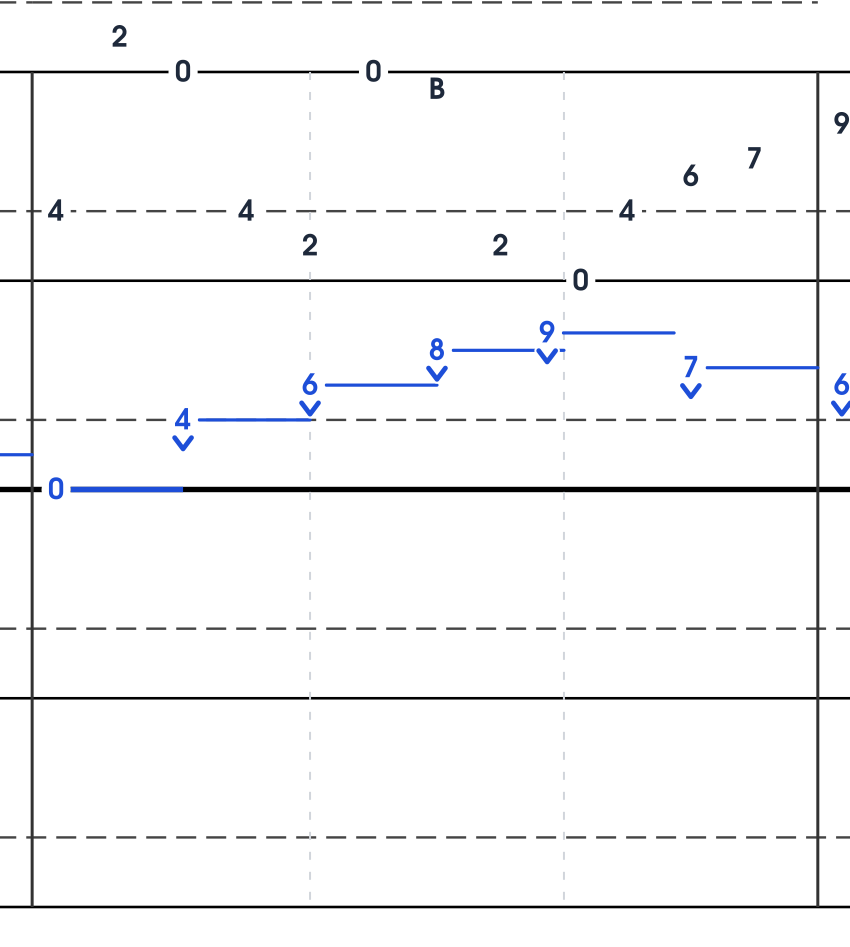
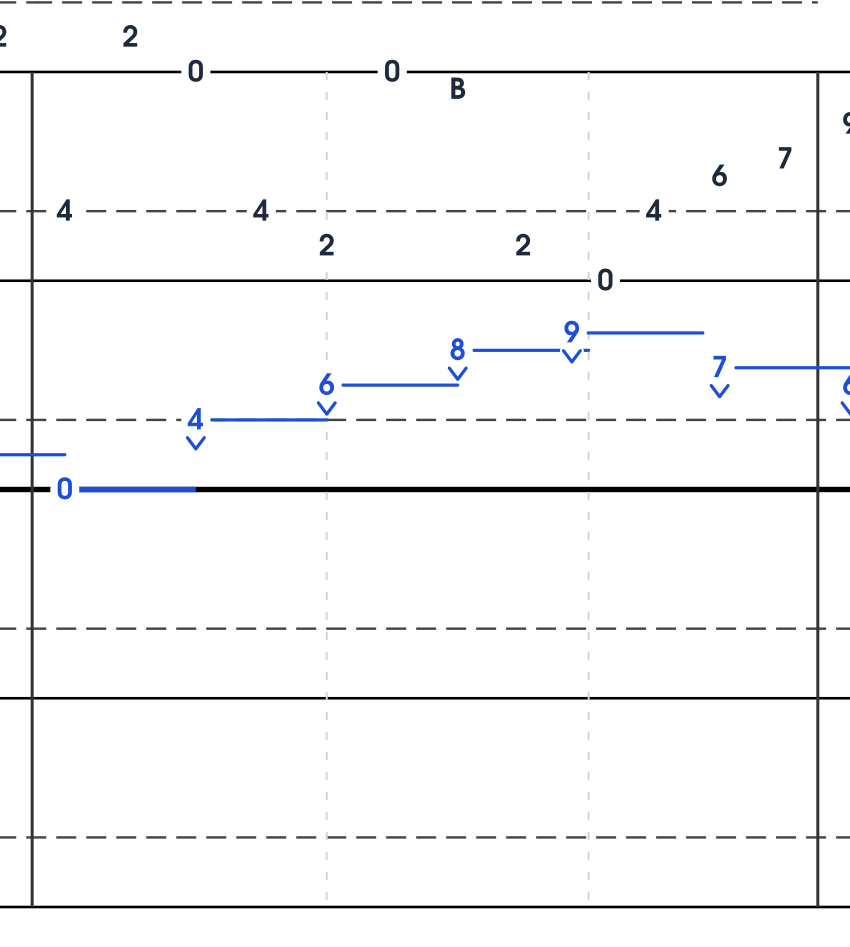
feat(engraving): authentic LilyPond accolade, zero system start lines, symmetric barline note spacing, and note-matched 0.80pt chevrons

diff --git a/src/render/print-layout.ts b/src/render/print-layout.ts
@@ -147,15 +147,38 @@ export function getClassicalAccoladePath(
 }
 
 /**
- * Classical calligraphic vertical accolade (curly brace) for the left margin of a
+/**
+ * Classical LilyPond/Emmentaler brace outline command table.
+ * 14 cubic Bézier segments derived from authentic master music engraving.
+ */
+const LILY_BRACE_CMDS: Array<{ type: 'M' | 'c' | 's'; args: number[] }> = [
+  { type: 'M', args: [-76, -210] },
+  { type: 'c', args: [0, 164, -92, 194, -92, 210] },
+  { type: 's', args: [92, 46, 92, 210] },
+  { type: 'c', args: [0, 148, -62, 270, -62, 430] },
+  { type: 'c', args: [0, 120, 34, 234, 130, 304] },
+  { type: 'c', args: [14, 10, 30, -10, 16, -20] },
+  { type: 'c', args: [-68, -50, -88, -122, -88, -204] },
+  { type: 'c', args: [0, -144, 58, -266, 58, -420] },
+  { type: 'c', args: [0, -118, -32, -228, -122, -300] },
+  { type: 'c', args: [90, -72, 122, -182, 122, -300] },
+  { type: 'c', args: [0, -154, -58, -276, -58, -420] },
+  { type: 'c', args: [0, -82, 20, -154, 88, -204] },
+  { type: 'c', args: [14, -10, -2, -30, -16, -20] },
+  { type: 'c', args: [-96, 70, -130, 184, -130, 304] },
+  { type: 'c', args: [0, 160, 62, 282, 62, 430] },
+];
+
+/**
+ * Authentic classical vertical accolade (curly brace) for the left margin of a
  * horizontal system. It clasps the full 4-octave staff from yTop (o5) to yBot (o1)
  * with its central cusp pointing directly horizontally into the Middle C spine at y(48).
  *
- * It features authentic calligraphic S-curvature:
- * - Upper and lower lobes swelling outward to bellyReach
- * - Graceful concave inflection towards a slender waist
- * - Sharp central cusp sweeping outward horizontally at yMid
- * - Smooth inner return profile tapering to delicate needle finials at tips and cusp
+ * Implements the definitive Emmentaler/LilyPond master-engraved brace geometry:
+ * - Razor-sharp horizontal beak cusp at yMid pointing leftward into the margin
+ * - Delicate, graceful waist inflections
+ * - Sculptural, organic swelling bellies
+ * - Feather-tapered tips clasping the staff edges at staffLeft
  */
 export function getVerticalAccoladePath(
   staffLeft: number,
@@ -166,80 +189,50 @@ export function getVerticalAccoladePath(
   maybeThick?: number
 ): string {
   let reach = ACCOLADE_WIDTH_PT;
-  let thick = ACCOLADE_THICKNESS_PT;
 
   if (maybeThick !== undefined) {
     reach = cuspOrThick;
-    thick = maybeThick;
-  } else if (reachOrBelly > 0 && cuspOrThick > 0) {
+  } else if (reachOrBelly > 0) {
     reach = reachOrBelly;
-    thick = cuspOrThick;
   }
 
   const ym = (yTop + yBot) / 2;
   const h = yBot - yTop;
-  const hh = h / 2;
+  const FONT_MAX_Y = 954.0;
+  const FONT_MIN_X = -168.0;
+  const FONT_MAX_X = 22.0;
 
-  // Classical proportions:
-  // - Outer bellies swell to ~85% of full cusp reach
-  // - Slender waist indents inward to ~30% of cusp reach
-  // - Central cusp sweeps into a horizontal beak pointing away from the staff
-  const cuspW = reach;
-  const bellyW = reach * 0.85;
-  const waistW = reach * 0.30;
-  const cuspReachY = 2.4;
+  const scaleY = (h / 2) / FONT_MAX_Y;
+  const scaleX = reach / (FONT_MAX_X - FONT_MIN_X);
 
-  // Top tip: touches the top staff line (o5)
-  const p0 = [staffLeft, yTop];
-  // Upper lobe: Tip to belly
-  const c1 = [staffLeft - bellyW * 0.60, yTop + hh * 0.07];
-  const c2 = [staffLeft - bellyW, yTop + hh * 0.20];
-  const pBelly = [staffLeft - bellyW, yTop + hh * 0.36];
+  const toS = (x: number, y: number): string =>
+    `${(staffLeft + (x - FONT_MAX_X) * scaleX).toFixed(2)} ${(ym - y * scaleY).toFixed(2)}`;
 
-  // Upper lobe: Belly to waist
-  const c3 = [staffLeft - bellyW, yTop + hh * 0.52];
-  const c4 = [staffLeft - waistW - 0.2, ym - hh * 0.28];
-  const pWaist = [staffLeft - waistW, ym - hh * 0.16];
+  let curr: [number, number] = [LILY_BRACE_CMDS[0].args[0], LILY_BRACE_CMDS[0].args[1]];
+  let prevCp: [number, number] = [curr[0], curr[1]];
+  const parts = [`M ${toS(curr[0], curr[1])}`];
 
-  // Upper lobe: Waist to central cusp (horizontal beak at ym)
-  const c5 = [staffLeft - waistW + 1.2, ym - cuspReachY * 1.8];
-  const c6 = [staffLeft - cuspW * 0.85, ym - 0.2];
-  const pCusp = [staffLeft - cuspW, ym];
+  for (let i = 1; i < LILY_BRACE_CMDS.length; i++) {
+    const cmd = LILY_BRACE_CMDS[i];
+    let p1: [number, number];
+    let p2: [number, number];
+    let p3: [number, number];
 
-  // Lower lobe (symmetric mirror across ym)
-  const c7 = [staffLeft - cuspW * 0.85, ym + 0.2];
-  const c8 = [staffLeft - waistW + 1.2, ym + cuspReachY * 1.8];
-  const pWaistLower = [staffLeft - waistW, ym + hh * 0.16];
-
-  const c9 = [staffLeft - waistW - 0.2, ym + hh * 0.28];
-  const c10 = [staffLeft - bellyW, yBot - hh * 0.52];
-  const pBellyLower = [staffLeft - bellyW, yBot - hh * 0.36];
-
-  const c11 = [staffLeft - bellyW, yBot - hh * 0.20];
-  const c12 = [staffLeft - bellyW * 0.60, yBot - hh * 0.07];
-  const pBot = [staffLeft, yBot];
-
-  // Inner return contour (swells in bellies, tapers at tips and cusp)
-  const inThickBelly = thick;
-  const inThickWaist = thick * 0.70;
-  const inThickCusp = 0.4;
-
-  return [
-    `M ${p0[0].toFixed(2)} ${p0[1].toFixed(2)}`,
-    `C ${c1[0].toFixed(2)} ${c1[1].toFixed(2)}, ${c2[0].toFixed(2)} ${c2[1].toFixed(2)}, ${pBelly[0].toFixed(2)} ${pBelly[1].toFixed(2)}`,
-    `C ${c3[0].toFixed(2)} ${c3[1].toFixed(2)}, ${c4[0].toFixed(2)} ${c4[1].toFixed(2)}, ${pWaist[0].toFixed(2)} ${pWaist[1].toFixed(2)}`,
-    `C ${c5[0].toFixed(2)} ${c5[1].toFixed(2)}, ${c6[0].toFixed(2)} ${c6[1].toFixed(2)}, ${pCusp[0].toFixed(2)} ${pCusp[1].toFixed(2)}`,
-    `C ${c7[0].toFixed(2)} ${c7[1].toFixed(2)}, ${c8[0].toFixed(2)} ${c8[1].toFixed(2)}, ${pWaistLower[0].toFixed(2)} ${pWaistLower[1].toFixed(2)}`,
-    `C ${c9[0].toFixed(2)} ${c9[1].toFixed(2)}, ${c10[0].toFixed(2)} ${c10[1].toFixed(2)}, ${pBellyLower[0].toFixed(2)} ${pBellyLower[1].toFixed(2)}`,
-    `C ${c11[0].toFixed(2)} ${c11[1].toFixed(2)}, ${c12[0].toFixed(2)} ${c12[1].toFixed(2)}, ${pBot[0].toFixed(2)} ${pBot[1].toFixed(2)}`,
-    `C ${(c12[0] + inThickBelly * 0.3).toFixed(2)} ${c12[1].toFixed(2)}, ${(c11[0] + inThickBelly).toFixed(2)} ${c11[1].toFixed(2)}, ${(pBellyLower[0] + inThickBelly).toFixed(2)} ${pBellyLower[1].toFixed(2)}`,
-    `C ${(c10[0] + inThickBelly).toFixed(2)} ${c10[1].toFixed(2)}, ${(c9[0] + inThickWaist).toFixed(2)} ${c9[1].toFixed(2)}, ${(pWaistLower[0] + inThickWaist).toFixed(2)} ${pWaistLower[1].toFixed(2)}`,
-    `C ${(c8[0] + inThickWaist * 0.7).toFixed(2)} ${c8[1].toFixed(2)}, ${(c7[0] + inThickCusp).toFixed(2)} ${(c7[1] + 0.15).toFixed(2)}, ${(pCusp[0] + inThickCusp).toFixed(2)} ${ym.toFixed(2)}`,
-    `C ${(c6[0] + inThickCusp).toFixed(2)} ${(c6[1] - 0.15).toFixed(2)}, ${(c5[0] + inThickWaist * 0.7).toFixed(2)} ${c5[1].toFixed(2)}, ${(pWaist[0] + inThickWaist).toFixed(2)} ${pWaist[1].toFixed(2)}`,
-    `C ${(c4[0] + inThickWaist).toFixed(2)} ${c4[1].toFixed(2)}, ${(c3[0] + inThickBelly).toFixed(2)} ${c3[1].toFixed(2)}, ${(pBelly[0] + inThickBelly).toFixed(2)} ${pBelly[1].toFixed(2)}`,
-    `C ${(c2[0] + inThickBelly).toFixed(2)} ${c2[1].toFixed(2)}, ${(c1[0] + inThickBelly * 0.3).toFixed(2)} ${c1[1].toFixed(2)}, ${p0[0].toFixed(2)} ${p0[1].toFixed(2)}`,
-    'Z',
-  ].join(' ');
+    if (cmd.type === 'c') {
+      p1 = [curr[0] + cmd.args[0], curr[1] + cmd.args[1]];
+      p2 = [curr[0] + cmd.args[2], curr[1] + cmd.args[3]];
+      p3 = [curr[0] + cmd.args[4], curr[1] + cmd.args[5]];
+    } else {
+      p1 = [2 * curr[0] - prevCp[0], 2 * curr[1] - prevCp[1]];
+      p2 = [curr[0] + cmd.args[0], curr[1] + cmd.args[1]];
+      p3 = [curr[0] + cmd.args[2], curr[1] + cmd.args[3]];
+    }
+    parts.push(`C ${toS(p1[0], p1[1])}, ${toS(p2[0], p2[1])}, ${toS(p3[0], p3[1])}`);
+    prevCp = p2;
+    curr = p3;
+  }
+  parts.push('Z');
+  return parts.join(' ');
 }
 
 export interface PrintLayoutOptions {
@@ -485,7 +478,7 @@ export function computeColumnarLayout(
 
   const ptPerTick = options.pixelsPerTick > 0
     ? options.pixelsPerTick
-    : (measureWidthPt - MEASURE_INSET_PT) / ticksPerMeasure;
+    : measureWidthPt / ticksPerMeasure;
 
   // Slice the score into horizontal systems
   const numSystems = Math.ceil(totalMeasures / measuresPerSystem);
@@ -641,16 +634,21 @@ export function getSystemGeometry(
   const yForPitch = (pitch: number): number =>
     staffBotY - (pitch - minPitch) * ptPerSemitone;
 
+  const subdivisionTicks = (layout.score?.gridResolution && layout.score.gridResolution > 0)
+    ? layout.score.gridResolution
+    : (layout.ticksPerBeat > 0 ? layout.ticksPerBeat / 4 : 12);
+  const measureInsetPt = (subdivisionTicks / 2) * ptPerTick;
+
   const xForMeasureStart = (measureIndexOnSystem: number): number =>
     staffLeftPt + measureIndexOnSystem * measureWidthPt;
 
   const xForTick = (tick: number): number => {
     const rel = tick - system.startTick;
-    if (rel <= 0) return staffLeftPt + MEASURE_INSET_PT;
+    if (rel <= 0) return staffLeftPt + measureInsetPt;
     if (rel >= spanTicks) return staffRightPt;
     const measureIdx = Math.floor(rel / ticksPerMeasure);
     const localTicks = rel - measureIdx * ticksPerMeasure;
-    return xForMeasureStart(measureIdx) + MEASURE_INSET_PT + localTicks * ptPerTick;
+    return xForMeasureStart(measureIdx) + measureInsetPt + localTicks * ptPerTick;
   };
 
   return {
@@ -809,7 +807,8 @@ export function renderPageToSvg(
 
     // 3a. System Start:
     // System 1 (start of the piece) receives the classical calligraphic vertical accolade (curly brace).
-    // Systems after the start (systemIndex > 0) use a clean regular flat start.
+    // Subsequent systems use a regular open start without an accolade.
+    // Zero starting vertical line: staff lines emerge openly and freely from staffLeft across the system.
     if (system.systemIndex === 0) {
       // Dedicated measure number in the left margin clear of the accolade
       svgParts.push(`    <!-- Urtext Measure Number in Dedicated Left Margin -->`);
@@ -818,16 +817,10 @@ export function renderPageToSvg(
       // Authentic Classical Accolade Curly Brace clasping o5 to o1
       svgParts.push(`    <!-- Classical Vertical Accolade (Curly Brace) clasping o1 to o5 -->`);
       svgParts.push(`    <path class="accolade" d="${getVerticalAccoladePath(staffLeft, staffTop, staffBot, ACCOLADE_WIDTH_PT, ACCOLADE_THICKNESS_PT)}" fill="#111827"/>`);
-
-      // Initial flat vertical start line
-      svgParts.push(`    <line x1="${staffLeft.toFixed(2)}" y1="${staffTop.toFixed(2)}" x2="${staffLeft.toFixed(2)}" y2="${staffBot.toFixed(2)}" stroke="#111827" stroke-width="1.0"/>`);
     } else {
-      // Regular flat start for subsequent systems
+      // Regular start for subsequent systems
       svgParts.push(`    <!-- Urtext Measure Number in Dedicated Left Margin -->`);
       svgParts.push(`    <text x="${(staffLeft - 10).toFixed(2)}" y="${(staffTop - 8).toFixed(2)}" text-anchor="end" class="measure-num">${system.startMeasure}</text>`);
-
-      // Regular flat vertical start line
-      svgParts.push(`    <line x1="${staffLeft.toFixed(2)}" y1="${staffTop.toFixed(2)}" x2="${staffLeft.toFixed(2)}" y2="${staffBot.toFixed(2)}" stroke="#111827" stroke-width="1.0"/>`);
     }
 
     // 3b. Horizontal staff topography
@@ -1085,14 +1078,14 @@ export function renderPageToSvg(
           const cy = ny - (r + clearance);
           const baseY = cy + chH / 2;
           const apexY = cy - chH / 2;
-          svgParts.push(`    <path class="hand-chevron-shield" d="M ${leftX.toFixed(2)} ${baseY.toFixed(2)} L ${nx.toFixed(2)} ${apexY.toFixed(2)} L ${rightX.toFixed(2)} ${baseY.toFixed(2)} Z" fill="#FFFFFF" stroke="#FFFFFF" stroke-width="2.20" stroke-linecap="round" stroke-linejoin="round"/>`);
-          svgParts.push(`    <path class="hand-chevron chevron-up" d="M ${leftX.toFixed(2)} ${baseY.toFixed(2)} L ${nx.toFixed(2)} ${apexY.toFixed(2)} L ${rightX.toFixed(2)} ${baseY.toFixed(2)}" fill="none" stroke="${noteColor}" stroke-width="1.20" stroke-linecap="round" stroke-linejoin="round"/>`);
+          svgParts.push(`    <path class="hand-chevron-shield" d="M ${leftX.toFixed(2)} ${baseY.toFixed(2)} L ${nx.toFixed(2)} ${apexY.toFixed(2)} L ${rightX.toFixed(2)} ${baseY.toFixed(2)} Z" fill="#FFFFFF" stroke="#FFFFFF" stroke-width="1.80" stroke-linecap="round" stroke-linejoin="round"/>`);
+          svgParts.push(`    <path class="hand-chevron chevron-up" d="M ${leftX.toFixed(2)} ${baseY.toFixed(2)} L ${nx.toFixed(2)} ${apexY.toFixed(2)} L ${rightX.toFixed(2)} ${baseY.toFixed(2)}" fill="none" stroke="${noteColor}" stroke-width="0.80" stroke-linecap="round" stroke-linejoin="round"/>`);
         } else {
           const cy = ny + (r + clearance);
           const baseY = cy - chH / 2;
           const apexY = cy + chH / 2;
-          svgParts.push(`    <path class="hand-chevron-shield" d="M ${leftX.toFixed(2)} ${baseY.toFixed(2)} L ${nx.toFixed(2)} ${apexY.toFixed(2)} L ${rightX.toFixed(2)} ${baseY.toFixed(2)} Z" fill="#FFFFFF" stroke="#FFFFFF" stroke-width="2.20" stroke-linecap="round" stroke-linejoin="round"/>`);
-          svgParts.push(`    <path class="hand-chevron chevron-down" d="M ${leftX.toFixed(2)} ${baseY.toFixed(2)} L ${nx.toFixed(2)} ${apexY.toFixed(2)} L ${rightX.toFixed(2)} ${baseY.toFixed(2)}" fill="none" stroke="${noteColor}" stroke-width="1.20" stroke-linecap="round" stroke-linejoin="round"/>`);
+          svgParts.push(`    <path class="hand-chevron-shield" d="M ${leftX.toFixed(2)} ${baseY.toFixed(2)} L ${nx.toFixed(2)} ${apexY.toFixed(2)} L ${rightX.toFixed(2)} ${baseY.toFixed(2)} Z" fill="#FFFFFF" stroke="#FFFFFF" stroke-width="1.80" stroke-linecap="round" stroke-linejoin="round"/>`);
+          svgParts.push(`    <path class="hand-chevron chevron-down" d="M ${leftX.toFixed(2)} ${baseY.toFixed(2)} L ${nx.toFixed(2)} ${apexY.toFixed(2)} L ${rightX.toFixed(2)} ${baseY.toFixed(2)}" fill="none" stroke="${noteColor}" stroke-width="0.80" stroke-linecap="round" stroke-linejoin="round"/>`);
         }
       }
     }

diff --git a/test/print-layout.test.ts b/test/print-layout.test.ts
@@ -75,7 +75,7 @@ interface SvgChevron {
 function extractChevrons(svg: string): SvgChevron[] {
   return Array.from(
     svg.matchAll(
-      /<path class="hand-chevron chevron-(up|down)" d="M ([-\d.]+) ([-\d.]+) L ([-\d.]+) ([-\d.]+) L ([-\d.]+) ([-\d.]+)" fill="none" stroke="([^"]+)" stroke-width="1\.20"/g
+      /<path class="hand-chevron chevron-(up|down)" d="M ([-\d.]+) ([-\d.]+) L ([-\d.]+) ([-\d.]+) L ([-\d.]+) ([-\d.]+)" fill="none" stroke="([^"]+)" stroke-width="0\.80"/g
     )
   ).map((m) => ({
     direction: m[1] as 'up' | 'down',
@@ -273,14 +273,13 @@ test('Classical Vertical Accolade Invariant: 14pt curly brace clasping o1–o5 o
   const aspect = (geo0.staffBotY - geo0.staffTopY) / width;
   assert.ok(aspect > 10 && aspect < 30, `Accolade aspect ratio must be elegant (got 1:${aspect.toFixed(1)})`);
 
-  // Every system on every page renders the regular flat vertical start line
+  // Zero starting vertical line on all systems: staff lines emerge openly and freely from staffLeft
   for (let pageIndex = 0; pageIndex < layout.pages.length; pageIndex++) {
     for (let s = 0; s < layout.pages[pageIndex].systems.length; s++) {
       const geo = getSystemGeometry(layout, pageIndex, s);
-      assert.match(
-        svgs[pageIndex],
-        new RegExp(`<line x1="${geo.staffLeftPt.toFixed(2)}" y1="${geo.staffTopY.toFixed(2)}" x2="${geo.staffLeftPt.toFixed(2)}" y2="${geo.staffBotY.toFixed(2)}" stroke="#111827" stroke-width="1.0"\\/>`),
-        `System ${s + 1} on Page ${pageIndex + 1} must render the regular flat start line`
+      assert.ok(
+        !svgs[pageIndex].includes(`<line x1="${geo.staffLeftPt.toFixed(2)}" y1="${geo.staffTopY.toFixed(2)}" x2="${geo.staffLeftPt.toFixed(2)}" y2="${geo.staffBotY.toFixed(2)}"`),
+        `System ${s + 1} on Page ${pageIndex + 1} must NOT render a starting vertical line`
       );
     }
   }
@@ -402,7 +401,7 @@ test('Horizontal Staff Topography Invariant: Middle C spine, octave lines, landm
   assert.doesNotMatch(page1, /class="beat-counter"/);
 });
 
-test('Authoritative Up/Down Handedness Chevron Invariant: 4.2 × 2.8pt chevrons at 1.20pt stroke', () => {
+test('Authoritative Up/Down Handedness Chevron Invariant: 4.2 × 2.8pt chevrons at 0.80pt stroke (matched to noteheads)', () => {
   const score = buildBachGoldbergVar1Score();
   const layout = computeColumnarLayout(score);
   const pages = renderAllPagesToSvg(layout);
@@ -466,20 +465,20 @@ test('Authoritative Up/Down Handedness Chevron Invariant: 4.2 × 2.8pt chevrons 
     assert.equal(round2(chevron.apexY - chevron.baseY1), 2.8, 'Chevron height must be 2.8pt');
   }
 
-  // Every chevron is rendered with the authoritative 1.20pt round-capped stroke and protective shield
+  // Every chevron is rendered with the 0.80pt stroke (matching note stroke thickness) and protective shield
   const authoritativeChevrons = pages.flatMap((svg) =>
     Array.from(
       svg.matchAll(
-        /<path class="hand-chevron chevron-(?:up|down)" d="M [-\d.]+ [-\d.]+ L [-\d.]+ [-\d.]+ L [-\d.]+ [-\d.]+" fill="none" stroke="[^"]+" stroke-width="1\.20" stroke-linecap="round" stroke-linejoin="round"\/>/g
+        /<path class="hand-chevron chevron-(?:up|down)" d="M [-\d.]+ [-\d.]+ L [-\d.]+ [-\d.]+ L [-\d.]+ [-\d.]+" fill="none" stroke="[^"]+" stroke-width="0\.80" stroke-linecap="round" stroke-linejoin="round"\/>/g
       )
     )
   );
-  assert.equal(authoritativeChevrons.length, allChevrons.length, 'Every chevron must use the 1.20pt round stroke');
+  assert.equal(authoritativeChevrons.length, allChevrons.length, 'Every chevron must use the 0.80pt round stroke');
 
   const shields = pages.flatMap((svg) =>
     Array.from(
       svg.matchAll(
-        /<path class="hand-chevron-shield" d="M [-\d.]+ [-\d.]+ L [-\d.]+ [-\d.]+ L [-\d.]+ [-\d.]+ Z" fill="#FFFFFF" stroke="#FFFFFF" stroke-width="2\.20" stroke-linecap="round" stroke-linejoin="round"\/>/g
+        /<path class="hand-chevron-shield" d="M [-\d.]+ [-\d.]+ L [-\d.]+ [-\d.]+ L [-\d.]+ [-\d.]+ Z" fill="#FFFFFF" stroke="#FFFFFF" stroke-width="1\.80" stroke-linecap="round" stroke-linejoin="round"\/>/g
       )
     )
   );

diff --git a/public/gallery.html b/public/gallery.html
@@ -15,24 +15,24 @@
 </head>
 <body>
   <h1>Iso-Notation Definitive Engraving: 4.35 pt/semitone Landscape</h1>
-  <p>Two systems per landscape page, authentic calligraphic curly brace clasping o1–o5 on System 1, clean regular flat starts for subsequent systems, noble gold halo ring framing optically centered opening '7' digits, dedicated left-margin measure numbering, detached capital 'B', and verified vertical clearance for outlier dotted lines on both sides of each system.</p>
+  <p>Two systems per landscape page, authentic classical LilyPond master-engraved curly brace clasping o1–o5 on System 1, zero starting vertical lines across all systems (open Urtext staff emergence), mathematically even note spacing across barlines, noble gold halo ring framing optically centered opening '7' digits, 0.80pt handedness chevrons matched to note stroke thickness, dedicated left-margin measure numbering, detached capital 'B', and verified vertical clearance for outlier dotted lines on both sides of each system.</p>
 
-  <h2>1. Calligraphic Accolade &amp; Gold Incipit</h2>
+  <h2>1. Classical Accolade &amp; Master Engraving</h2>
   <div class="grid">
     <div class="card">
-      <h3>Measures 1–2 (Classical Accolade &amp; Gold Incipit)</h3>
+      <h3>Measures 1–2 (Classical LilyPond Accolade &amp; Gold Incipit)</h3>
       <img src="/img/definitive_m1_m2.png" alt="Measures 1-2 Definitive Start">
-      <p>System 1 classical calligraphic curly brace with deep S-curves, outer bellies, concave waist, and horizontal Middle C beak; opening '7' digits framed by a noble gold halo ring (#D4AF37) with balanced optical centering; measure number 1 isolated in left margin; capital B detached with clean whitespace below octave lines.</p>
+      <p>System 1 classical LilyPond/Emmentaler curly brace with authentic calligraphic S-curves, organic bellies, slender waist, and horizontal Middle C beak; zero vertical starting line; opening '7' digits framed by a noble gold halo ring (#D4AF37) with balanced optical centering; measure number 1 isolated in left margin; mathematically symmetric note spacing across the m. 1–2 barline.</p>
     </div>
     <div class="card">
       <h3>Page 1 (Measures 1–8)</h3>
       <img src="/img/page1_4.25.png" alt="Page 1">
-      <p>Single-line title block, two spacious horizontal systems (System 1 with calligraphic curly brace, System 2 with clean flat start), vast vertical whitespace gutter, measure numerals 1 and 5 cleanly isolated in left margin.</p>
+      <p>Single-line title block, two spacious horizontal systems (System 1 with classical accolade, System 2 with open start, zero starting vertical lines), vast vertical whitespace gutter, measure numerals 1 and 5 cleanly isolated in left margin.</p>
     </div>
     <div class="card">
       <h3>Page 4 (Measures 25–32 &amp; Outlier Landmark 4)</h3>
       <img src="/img/page4_4.25.png" alt="Page 4">
-      <p>Regular flat starts for Systems 7 and 8; Measures 29–30 feature local dashed outlier line (pitch 76) with notes on it fitting with generous clearance between System 1 and System 2; measure 32 bass notes clear page bottom.</p>
+      <p>Open starts for Systems 7 and 8; Measures 29–30 feature local dashed outlier line (pitch 76) with notes on it fitting with generous clearance between System 1 and System 2; measure 32 bass notes clear page bottom.</p>
     </div>
   </div>
 

diff --git a/test/notation-variations.test.ts b/test/notation-variations.test.ts
@@ -289,7 +289,7 @@ test('Notehead Morphology: duodecimal base-12 pitch-class tokens 0..9, a, b', ()
 
   // Intuitive Up/Down Handedness Chevrons for hand-crossing exceptions:
   // Measure 4 contains RH crossing into the bass (< 48) -> upward chevrons above the noteheads
-  const chevronRegex = /<path class="hand-chevron chevron-(up|down)" d="M ([-\d.]+) ([-\d.]+) L ([-\d.]+) ([-\d.]+) L ([-\d.]+) ([-\d.]+)" fill="none" stroke="([^"]+)" stroke-width="1\.20"/g;
+  const chevronRegex = /<path class="hand-chevron chevron-(up|down)" d="M ([-\d.]+) ([-\d.]+) L ([-\d.]+) ([-\d.]+) L ([-\d.]+) ([-\d.]+)" fill="none" stroke="([^"]+)" stroke-width="0\.80"/g;
   const upMatches = Array.from(svg.matchAll(chevronRegex)).filter((m) => m[1] === 'up');
   assert.ok(upMatches.length > 0, 'Must render upward chevrons for duodecimal RH crossing exceptions in mm. 1–12');
   upMatches.forEach((m) => {
